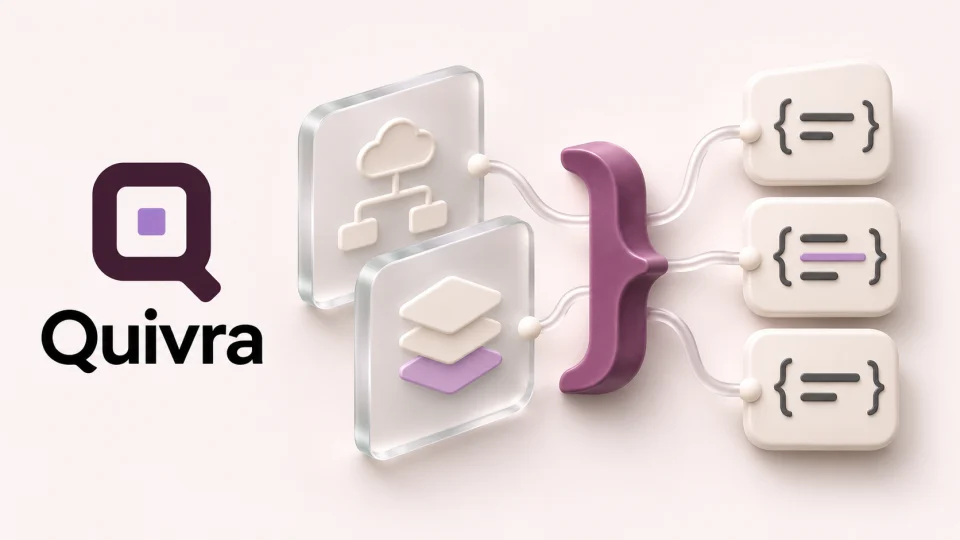
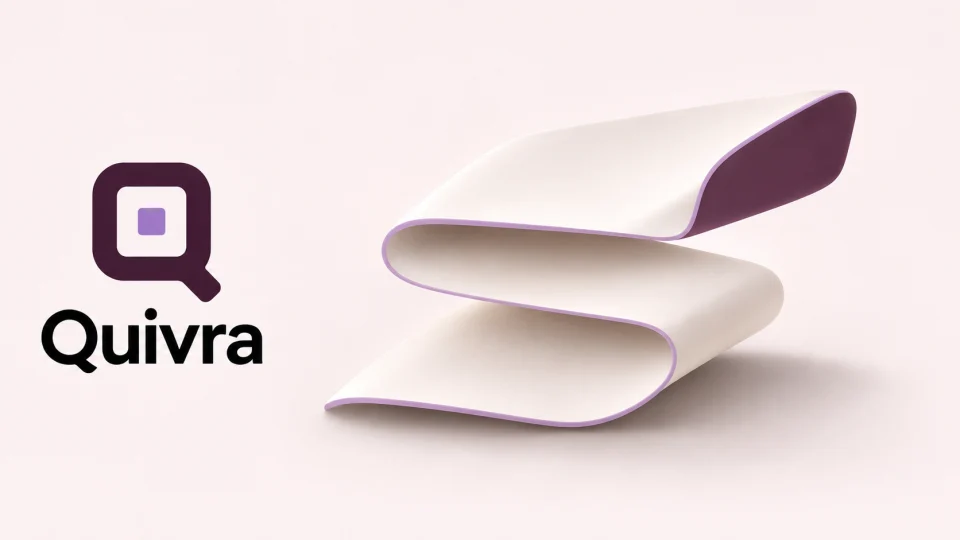
docs: simplify the Quivra cover illustration

Changed region(s): [[0.3125, 0.1185, 0.9688, 0.9185]]

diff --git a/.github/assets/README.md b/.github/assets/README.md
@@ -1,5 +1,5 @@
 # Quivra artwork
 
-The [product card](project-card.webp) shows glass specification plates connected through a plum bracket to ceramic code tiles. The matching [product icon](quivra-icon.png) uses a transparent background.
+The [product card](project-card.webp) shows a folded ivory ceramic ribbon with lilac edging. The matching [product icon](quivra-icon.png) uses a transparent background.
 
 Pixel Brewery generated both assets with ImageGen. The [card metadata](project-card.json) records their dimensions, alternative text and prompts.

diff --git a/README.md b/README.md
@@ -1,5 +1,5 @@
 <p align="center">
-  <img src=".github/assets/project-card.webp" alt="Quivra wordmark beside glass specification plates connected through a plum bracket to ceramic code tiles" width="960" />
+  <img src=".github/assets/project-card.webp" alt="Quivra wordmark beside a folded ivory ceramic ribbon with lilac edging" width="960" />
 </p>
 
 # Quivra
